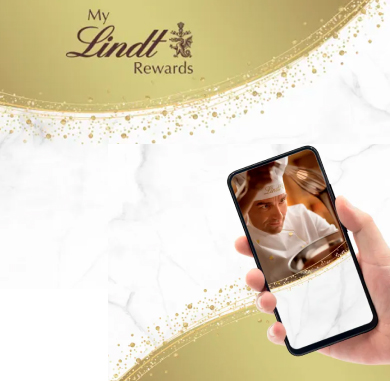
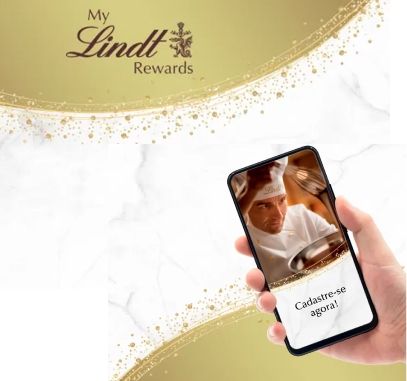
feat: changed hero images

diff --git a/index.html b/index.html
@@ -16,9 +16,7 @@
                 na sua primeira compra.</p>
                 <button href="#" target="_blank">Cadastre-se</button>
             </div>
-            <div class="wrapp-link">
-                <a href="#" target="_blank" class="link-main">Cadastre-se agora!</a>
-            </div>
+            
         </div>
     </main>
 
